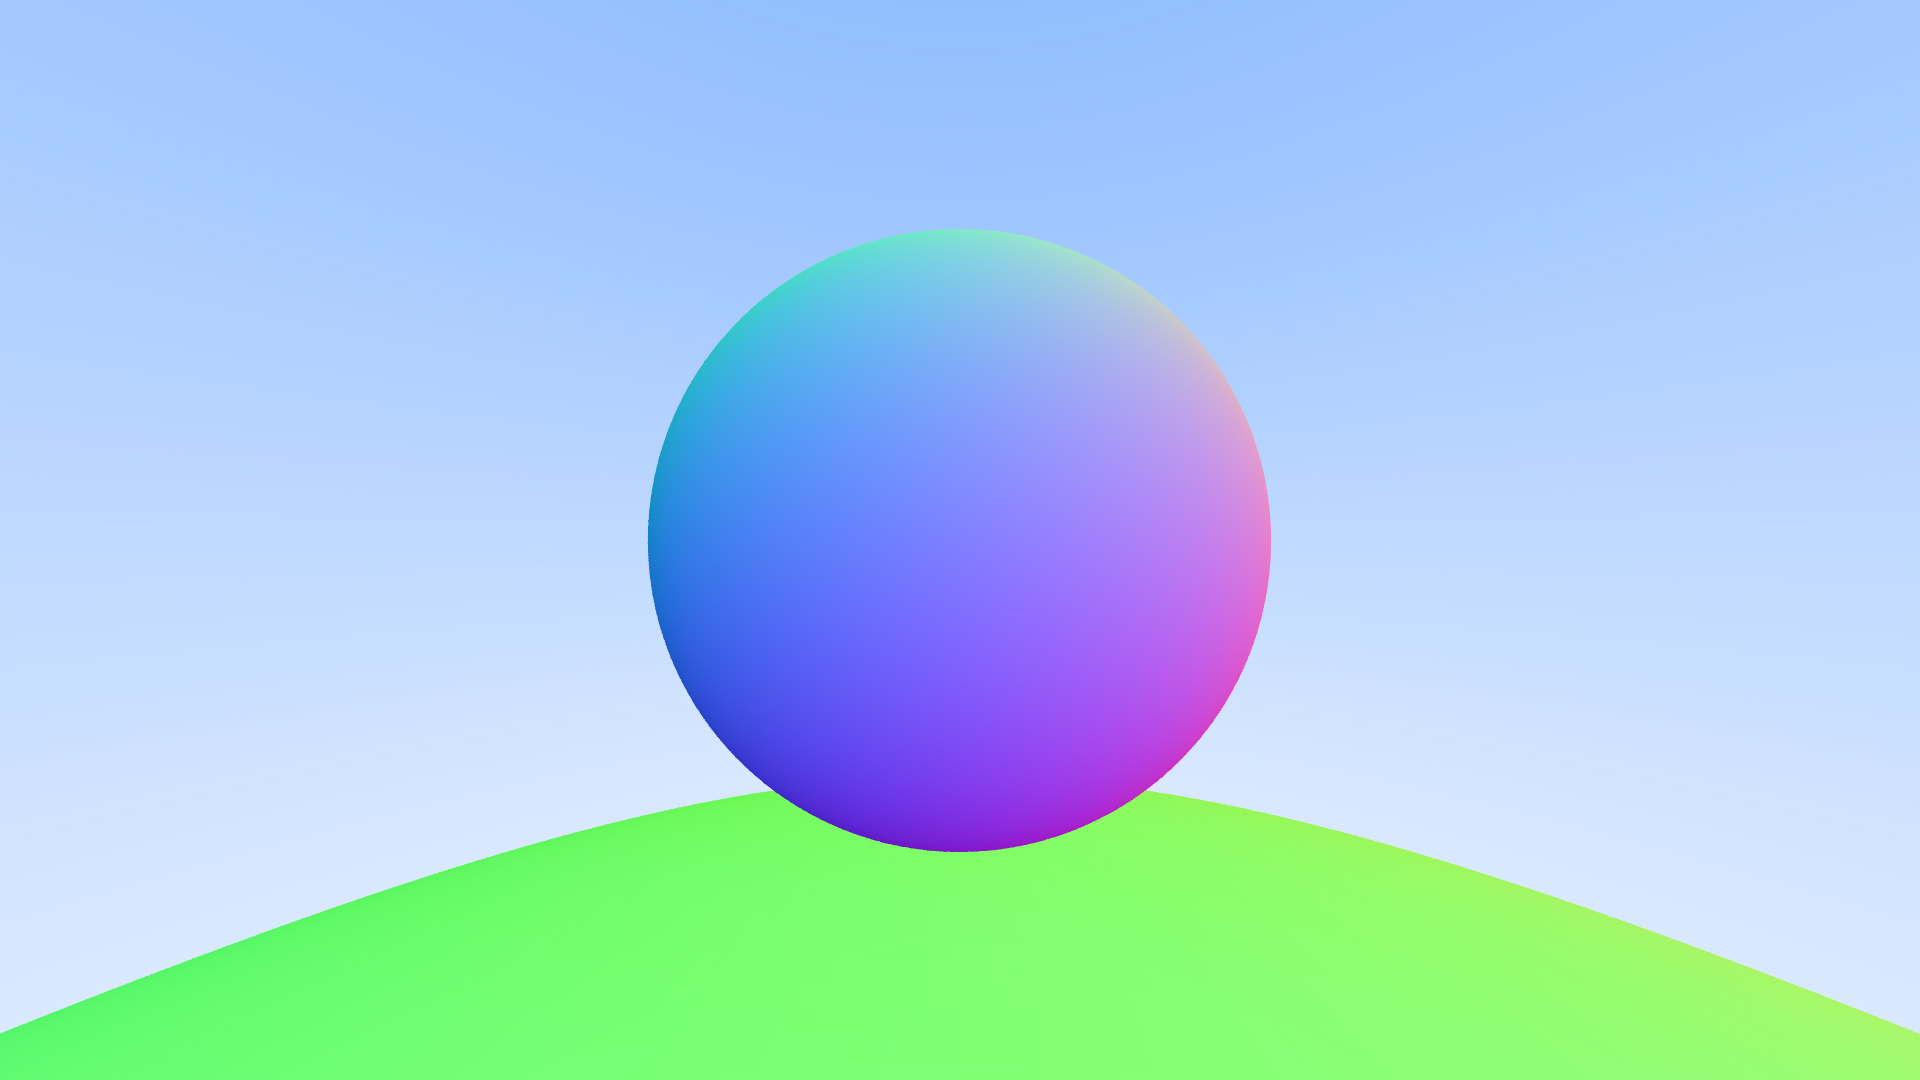
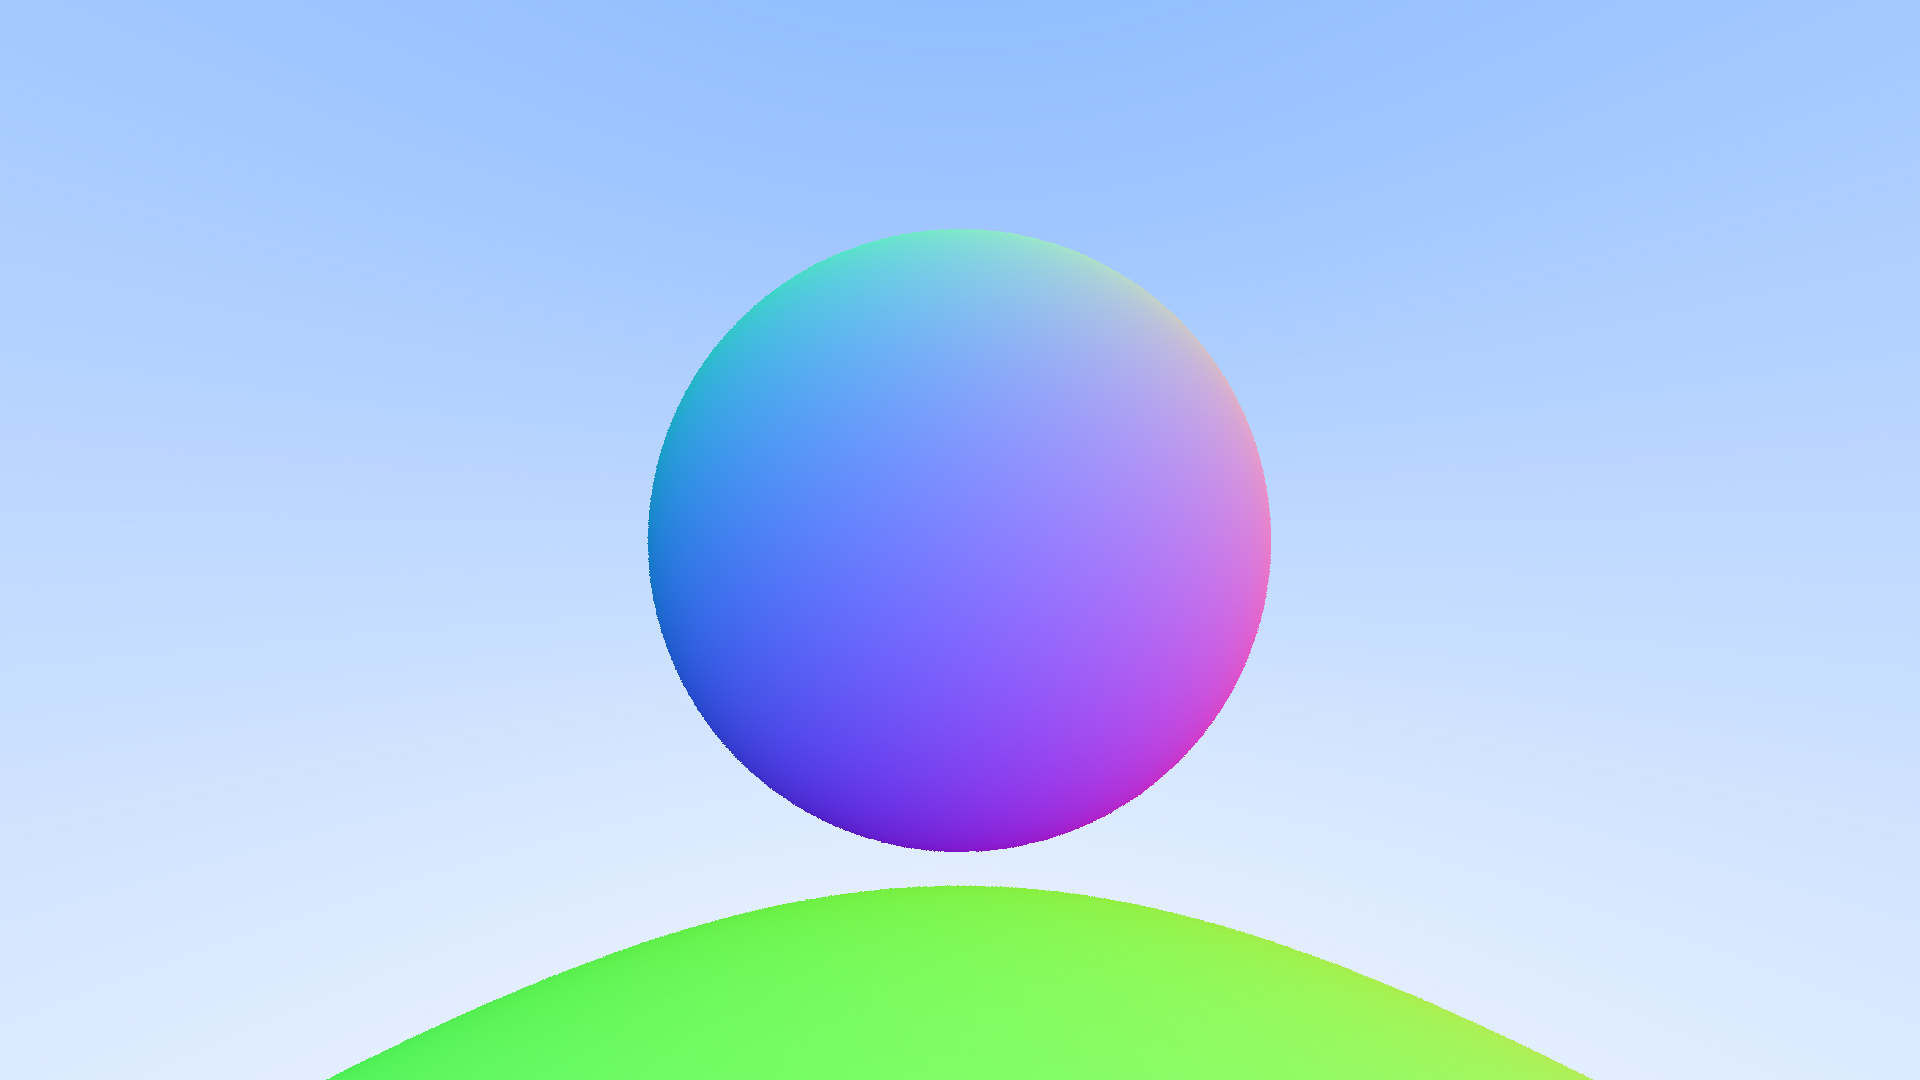
Added random vectors to vector class.

Changed region(s): [[0.0, 0.7333, 1.0, 1.0]]

diff --git a/Lucin/main/main.cpp b/Lucin/main/main.cpp
@@ -55,7 +55,7 @@ int main() {
 
     // Image
     const auto aspect_ratio = 16.0 / 9.0;
-    const int image_width = 1920;
+    const int image_width = 400;
     const int image_height = static_cast<int>(image_width / aspect_ratio);
     unsigned char* data = new unsigned char[image_width * image_height * 3];
     const int samples_per_pixel = 8;
@@ -63,7 +63,7 @@ int main() {
 	// World
 	hittable_list world;
 	world.add(make_shared<sphere>(point3(0, 0, -1), 0.5));
-	world.add(make_shared<sphere>(point3(0, -110, -2), 100));
+	world.add(make_shared<sphere>(point3(0, -120, -2), 100));
 
     // Camera
 	camera cam;

diff --git a/Lucin/math/vec3.h b/Lucin/math/vec3.h
@@ -51,6 +51,14 @@ class vec3
 		double length_squared() const {
 			return e[0] * e[0] + e[1] * e[1] + e[2] * e[2];
 		}
+
+		inline static vec3 random() {
+			return vec3(random_double(), random_double(), random_double());
+		}
+
+		inline static vec3 random(double min, double max) {
+			return vec3(random_double(min, max), random_double(min, max), random_double(min, max));
+		}
 public:
 	double e[3];
 };
